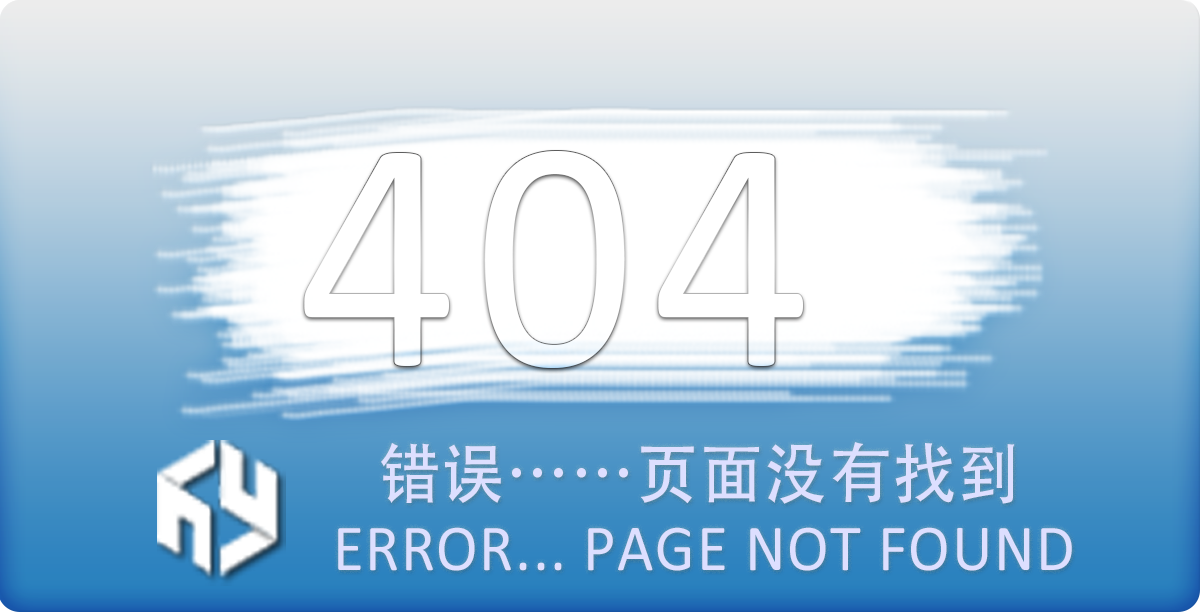
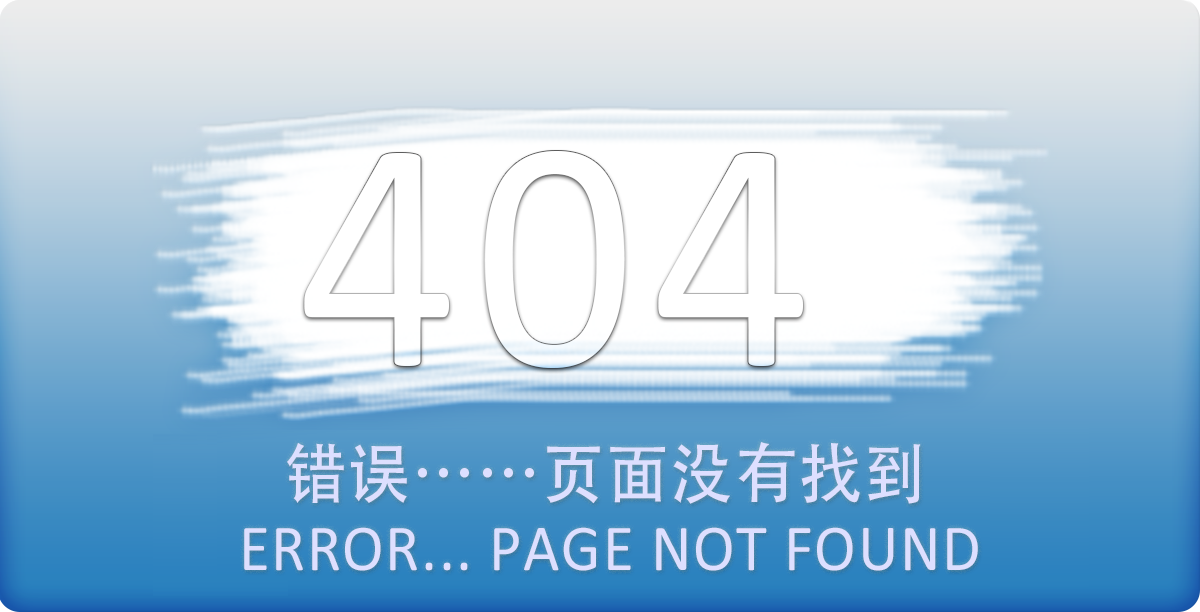
remove hylogo remove hy info new xklogo

Changed region(s): [[0.1233, 0.7141, 0.8942, 0.9624]]

diff --git a/config/website.php b/config/website.php
@@ -1,11 +1,11 @@
 <?php
 return array(
-    'site_title'       => '皓雅管理系统',
+    'site_title'       => 'XK管理系统',
     'site_domain'      => 'ms.xjhywh.cn',
-    'site_keywords'    => '皓雅管理系统 HTML, CSS, JS, JavaScript, framework, bootstrap, front-end, frontend, web development,jquery,jquery-ui\'"',
-    'site_description' => '皓雅管理系统 简洁、直观、强悍、移动设备优先的前端开发框架，让web开发更迅速、简单。',
+    'site_keywords'    => 'XK管理系统 HTML, CSS, JS, JavaScript, framework, bootstrap, front-end, frontend, web development,jquery,jquery-ui\'"',
+    'site_description' => 'XK管理系统 简洁、直观、强悍、移动设备优先的前端开发框架，让web开发更迅速、简单。',
     'site_other'       => 'HaoYa Culture Dissemination Co,.LTD',
-    'site_company'     => '皓雅文化传播有限公司',
+    'site_company'     => 'XK管理系统',
     'site_phone'       => '',
     'site_telphone'    => '0991-5819279  5819271',
     'site_addr'        => '乌鲁木齐市长沙路1号美林阁小区1号楼1单元1802室',
